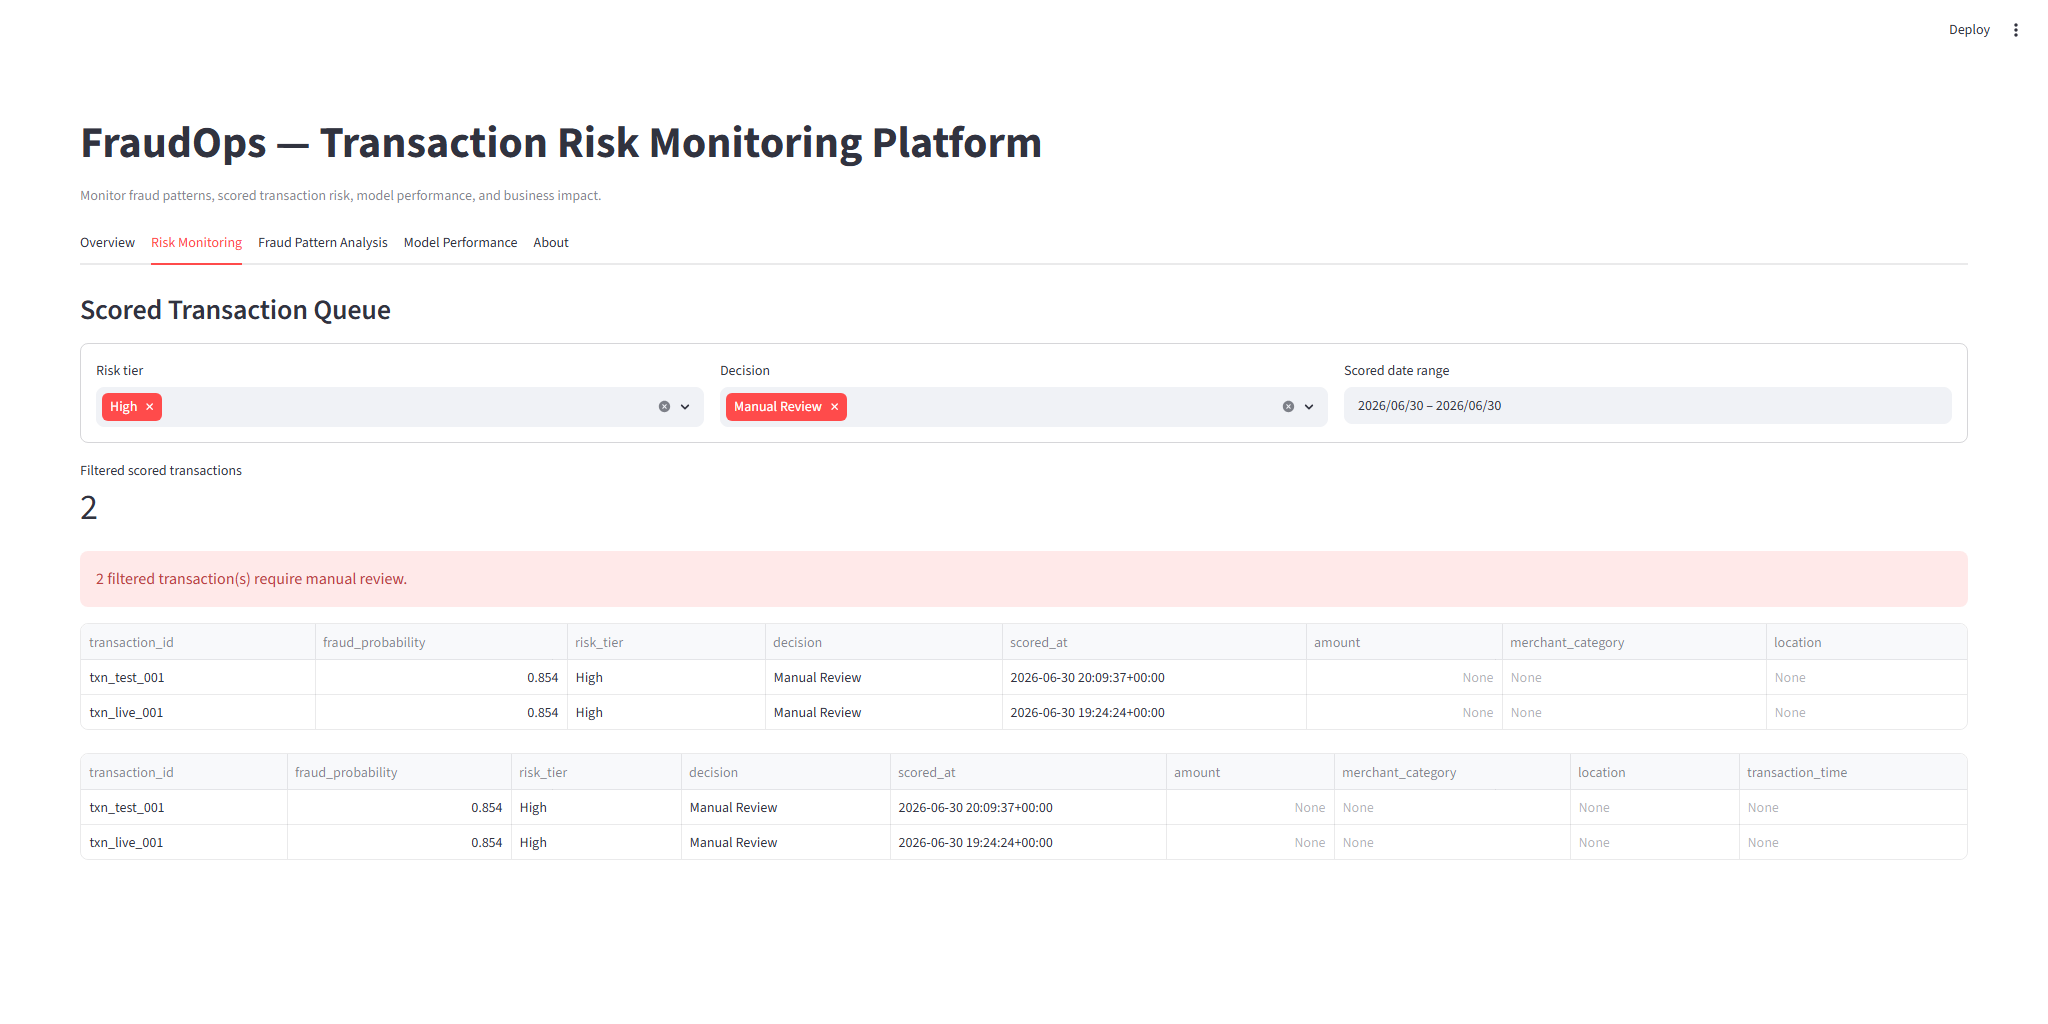
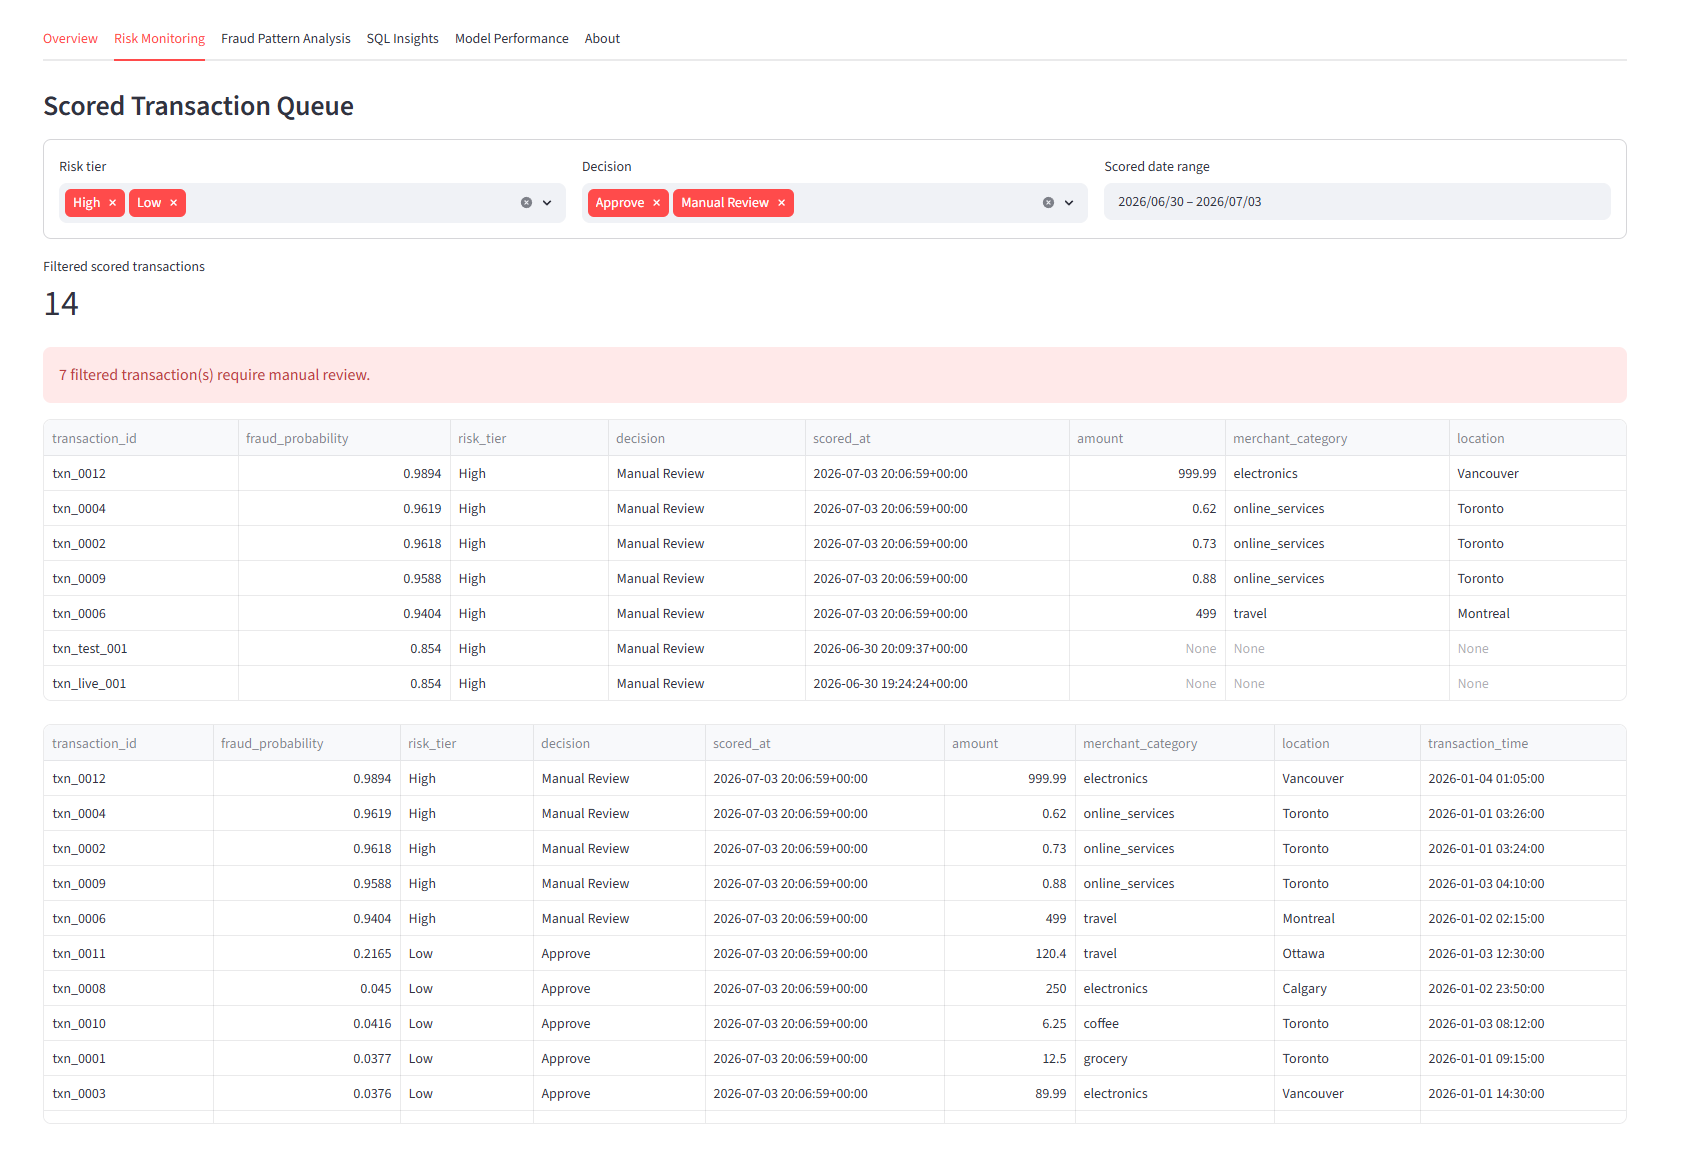
Update dashboard screenshots and add SQL Insights screenshot
Refreshes Overview and Risk Monitoring screenshots to match current dashboard state and adds the missing SQL Insights tab screenshot to the README.

diff --git a/README.md b/README.md
@@ -271,6 +271,10 @@ The Streamlit dashboard includes six tabs:
 
 <img src="assets/screenshots/streamlit-fraud-pattern-analysis.png" alt="FraudOps Streamlit fraud pattern analysis charts" width="900">
 
+### SQL Insights
+
+<img src="assets/screenshots/streamlit-sql-insights.png" alt="FraudOps Streamlit SQL insights dashboard tab" width="900">
+
 ### Model Performance
 
 <img src="assets/screenshots/streamlit-model-performance.png" alt="FraudOps Streamlit model performance dashboard tab" width="900">

diff --git a/assets/screenshots/README.md b/assets/screenshots/README.md
@@ -8,6 +8,7 @@ These screenshots are used by the main project README.
 | `streamlit-overview.png` | Streamlit Overview tab with portfolio health KPIs |
 | `streamlit-risk-monitoring.png` | Streamlit Risk Monitoring tab with scored transaction queue |
 | `streamlit-fraud-pattern-analysis.png` | Streamlit Fraud Pattern Analysis tab with fraud charts |
+| `streamlit-sql-insights.png` | Streamlit SQL Insights tab with fraud KPI summary and SQL-driven charts |
 | `streamlit-model-performance.png` | Streamlit Model Performance tab with metrics and threshold comparison |
 | `streamlit-about.png` | Streamlit About tab with project purpose, stack, and architecture summary |
 